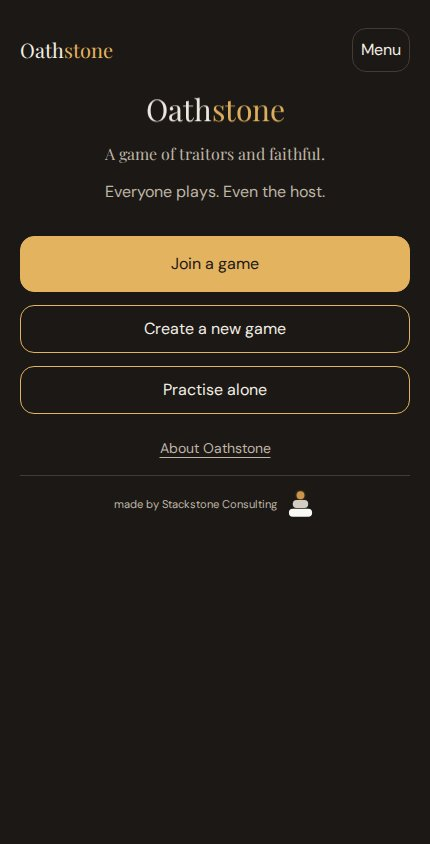
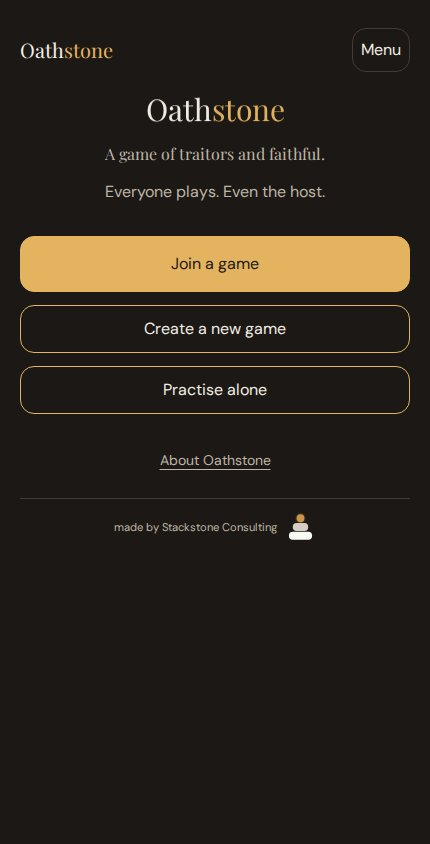
Align entry route checks and audit the hydrated setup screens

Changed region(s): [[0.2721, 0.5853, 0.7256, 0.6469], [0.3628, 0.5237, 0.6349, 0.5545]]

diff --git a/e2e/application-layout-audit.spec.ts b/e2e/application-layout-audit.spec.ts
@@ -140,6 +140,10 @@ for (const width of widths)
       async function go(path: string, heading?: string) {
         await page.goto(path);
         await expect(
+          page.locator('.entry-experience'),
+          'Wait for the hydrated entry experience, not the SSR first-paint fallback.',
+        ).toBeVisible({ timeout: 30_000 });
+        await expect(
           page.locator('main h1, [data-testid="player-game"] h1').first(),
         ).toBeVisible();
         if (heading)
@@ -239,6 +243,8 @@ for (const width of widths)
         .click();
       await page.getByTestId('game-status-menu').locator('summary').click();
       await go('/');
+      await expect(page.locator('.entry-welcome .entry-display')).toBeVisible();
+      await expect(page.getByTestId('button-create-game')).toBeVisible();
       await audit('entry');
       await page.keyboard.press('Tab');
       await audit('entry-keyboard-focus');
@@ -247,6 +253,7 @@ for (const width of widths)
       await audit('entry-menu');
       await page.locator('header details').first().locator('summary').click();
       await go('/join');
+      await expect(page.getByTestId('input-join-name')).toBeVisible();
       await audit('join-empty');
       await page.getByTestId('input-join-name').fill('Morgan');
       for (let i = 0; i < 6; i++)
@@ -263,7 +270,11 @@ for (const width of widths)
         page.getByRole('heading', { name: /Waiting/ }),
       ).toBeVisible();
       await audit('join-waiting-approval');
-      await go('/?entry=create');
+      await go('/?entry=create', 'Name your game');
+      await expect(page.getByTestId('input-game-name')).toBeVisible();
+      await expect(
+        page.getByTestId('button-continue-create-name'),
+      ).toBeVisible();
       await audit('create-name');
       await page.getByTestId('button-continue-create-name').click();
       await audit('create-count');
@@ -274,7 +285,8 @@ for (const width of widths)
       await page.getByTestId('input-organiser-name').fill('Morgan');
       await page.getByTestId('input-organiser-pin').fill('1234');
       await audit('create-complete');
-      await go('/?entry=rehearsal');
+      await go('/?entry=rehearsal', 'Practise alone first');
+      await expect(page.getByTestId('input-rehearsal-name')).toBeVisible();
       await audit('practice-empty');
       await page.getByTestId('input-rehearsal-name').fill('Morgan');
       await audit('practice-ready');

diff --git a/tests/identity.test.ts b/tests/identity.test.ts
@@ -1,7 +1,6 @@
 import { describe, expect, it } from 'vitest';
 import { readFileSync } from 'node:fs';
 import { config } from '../artifacts/party-game/src/config';
-import { getPublicTitle } from '../artifacts/party-game/src/public-site-content';
 
 describe('single-source owner identity', () => {
   it('stores the confirmed name, tagline/byline and organisation in config', () => {
@@ -35,12 +34,10 @@ describe('single-source owner identity', () => {
       ),
       'utf8',
     );
-    expect(output).toContain(`<title>${getPublicTitle()}</title>`);
+    expect(output).toContain(`<title>${config.appName}</title>`);
+    expect(output).toContain(`property="og:title" content="${config.appName}"`);
     expect(output).toContain(
-      `property="og:title" content="${getPublicTitle()}"`,
-    );
-    expect(output).toContain(
-      `name="twitter:title" content="${getPublicTitle()}"`,
+      `name="twitter:title" content="${config.appName}"`,
     );
     expect(output).not.toContain('__APP_NAME__');
     expect(output).not.toContain('__PUBLIC_TITLE__');

diff --git a/tests/pipeline.test.ts b/tests/pipeline.test.ts
@@ -247,7 +247,13 @@ describe('owner-approved delivery policy', () => {
       throw new Error('Production test server did not start');
 
     try {
-      for (const path of ['/', '/play', '/game/rehearsal-id', '/robots.txt']) {
+      const legacy = await fetch(
+        `http://127.0.0.1:${address.port}/play?entry=rehearsal#ignored`,
+        { redirect: 'manual' },
+      );
+      expect(legacy.status).toBe(301);
+      expect(legacy.headers.get('location')).toBe('/?entry=rehearsal');
+      for (const path of ['/', '/join', '/game/rehearsal-id', '/robots.txt']) {
         const response = await fetch(`http://127.0.0.1:${address.port}${path}`);
         expect(response.status).toBe(200);
         expect(response.headers.get('x-robots-tag')).toBe(

diff --git a/e2e/public-pages.spec.ts b/e2e/public-pages.spec.ts
@@ -331,6 +331,18 @@ test('home and app first paint stay styled with JavaScript disabled', async ({
       .getByRole('heading', { level: 1 })
       .evaluate((element) => getComputedStyle(element).fontFamily),
   ).toContain('Playfair Display');
+  const entryCopyGap = await rootEntry
+    .locator('.game-entry-static > p')
+    .first()
+    .evaluate((paragraph) => {
+      const heading = paragraph.previousElementSibling;
+      if (!(heading instanceof HTMLElement)) return -1;
+      return (
+        paragraph.getBoundingClientRect().top -
+        heading.getBoundingClientRect().bottom
+      );
+    });
+  expect(entryCopyGap).toBeGreaterThanOrEqual(8);
   expect(
     await page
       .locator('#static-home.safe-page')

diff --git a/tests/database.integration.test.ts b/tests/database.integration.test.ts
@@ -6461,7 +6461,12 @@ it.each([5, 40])(
         Cookie: `oathstone-csrf=${csrfToken}`,
         'X-CSRF-Token': csrfToken,
       };
-      expect((await request(runtime.url).get('/play')).text).toBe(
+      const legacyPlay = await request(runtime.url)
+        .get('/play?entry=create')
+        .redirects(0);
+      expect(legacyPlay.status).toBe(301);
+      expect(legacyPlay.headers.location).toBe('/?entry=create');
+      expect((await request(runtime.url).get('/join')).text).toBe(
         '<main>Oathstone restart shell</main>',
       );
       for (let index = 0; index < commands.length; index++) {

diff --git a/e2e/a-virtual-player-h1.spec.ts b/e2e/a-virtual-player-h1.spec.ts
@@ -1097,7 +1097,7 @@ test('virtual players complete a real game across desktop and phone contexts @vi
         await page.goto('/');
         await pauseForHumanTiming(page, scenario.stage);
         await page
-          .getByRole('link', { name: 'Join a game', exact: true })
+          .getByRole('button', { name: 'Join a game', exact: true })
           .click();
         for (let digit = 0; digit < gameCode.length; digit += 1) {
           await page

diff --git a/e2e/disconnected-player-live.spec.ts b/e2e/disconnected-player-live.spec.ts
@@ -202,7 +202,7 @@ test('disconnected player can be skipped, undone, removed, reinstated and return
       const player = pages[index]!;
       await player.goto('/');
       await player
-        .getByRole('link', { name: 'Join a game', exact: true })
+        .getByRole('button', { name: 'Join a game', exact: true })
         .click();
       for (let digit = 0; digit < code.length; digit += 1) {
         await player

diff --git a/artifacts/party-game/src/EntryExperience.css b/artifacts/party-game/src/EntryExperience.css
@@ -92,7 +92,7 @@
   position: absolute;
   z-index: -1;
   content: '';
-  inset: -2rem -3rem;
+  inset: -2rem 0;
   border-radius: 50%;
   background: none;
   opacity: 0;
@@ -1072,6 +1072,9 @@
 }
 
 .entry-about-link {
+  display: inline-flex;
+  align-items: center;
+  min-height: 44px;
   margin-top: 0.5rem;
   color: var(--entry-ash);
   font-size: 0.875rem;

diff --git a/artifacts/party-game/src/public-home.css b/artifacts/party-game/src/public-home.css
@@ -16,6 +16,9 @@
 .game-entry-static h1 {
   font: 400 30px/1.15 var(--font-headline);
 }
+.game-entry-static > h1 + p {
+  margin-top: 8px;
+}
 .game-entry-static nav {
   display: grid;
   gap: 12px;

diff --git a/docs/PROGRESS.md b/docs/PROGRESS.md
@@ -1,7 +1,21 @@
 # Status for reviewer
 
-**Round 7 Amendment A — ready to push after Verify #306 GREEN
-(`4bc42ca2`).** One paper entry at `/`, HTTP 301 from `/play`, company canonical/
+**Round 7 Amendment A — pushed `fa3a17bf`; Verify #307 FAILED.**
+Logs read: stale marketing-title and `/play` shell assertions in unit/integration;
+H1 still sought a Join link instead of the hydrated entry button; the strict
+layout audit caught touching entry heading/descriptor boxes at short height.
+Fixing these without changing any rule, security/geometry assertion or timeout.
+Missions review remains paused until Amendment A is green.
+
+The fix is locally green: 22 identity/pipeline tests, types/lint, the complete
+H1 and disconnected-player real-server journeys (2/2, 3.9 minutes), all eight
+desktop application-state audits plus four Pixel/iPhone 320 day/night audits.
+Each audit now waits for the requested hydrated form instead of the fallback.
+This exposed and fixed an invisible pseudo-element's horizontal overflow and
+the new About link's 21px target (now 44px). The fallback has an independently
+tested 8px heading gap. No check was removed or relaxed; six JPEGs refreshed.
+
+One paper entry at `/`, HTTP 301 from `/play`, company canonical/
 About link, app noindex and direct join-name prefill. Local: 152 client tests,
 18 targeted Node tests, typecheck, ESLint, format, build and focused desktop/
 Pixel/iPhone checks pass (latest entry routing: 15/15). Six entry JPEGs are in

diff --git a/docs/DECISIONS.md b/docs/DECISIONS.md
@@ -25,6 +25,14 @@ Legacy public-demo geometry and hold/release privacy checks now use a
 test-only fulfilled fixture made from the real renderer/module/CSS; no demo
 was added to a production information page.
 
+Verify #307 exposed old tests treating `/play` as HTML rather than a redirect,
+and an H1 Join locator matching the server fallback anchor that React replaces.
+Keep private HTML/CSP assertions on actual private paths and test the 301
+explicitly. The gallery must wait for the intended hydrated heading/form, not
+merely a styled fallback. Keep fallback/no-JS tests separately. Once the real
+forms were audited, contain the invisible welcome pseudo-element horizontally
+and make About a 44px link; do not exempt these from strict geometry checks.
+
 ## 19 October 2026 — Milestone 5 acceptance
 
 The owner accepted the Milestone 5 real-phone rehearsal and authorized work on Milestone 6. This clears the Milestone 5 review gate only; it does not approve publishing, paid services, production secrets, domain or DNS changes.

diff --git a/.agents/memory/prerender-readiness.md b/.agents/memory/prerender-readiness.md
@@ -1,0 +1,16 @@
+---
+name: Entry prerender readiness
+description: Distinguish styled no-JS entry HTML from the hydrated screen being tested.
+---
+
+Real-UI journeys and state galleries must wait for the intended hydrated
+screen, not just a styled heading or a no-JS fallback link. Test the fallback
+separately with JavaScript disabled.
+
+**Why:** A Join fallback anchor was replaced by the React button during a
+click, and the layout gallery mislabeled the same fallback as several setup
+states. CSS readiness alone did not establish application-state readiness.
+
+**How to apply:** Wait for the real control's role and the requested screen's
+heading/form before acting or auditing. Keep the strict geometry checks;
+fix fallback spacing independently rather than exempting it.
